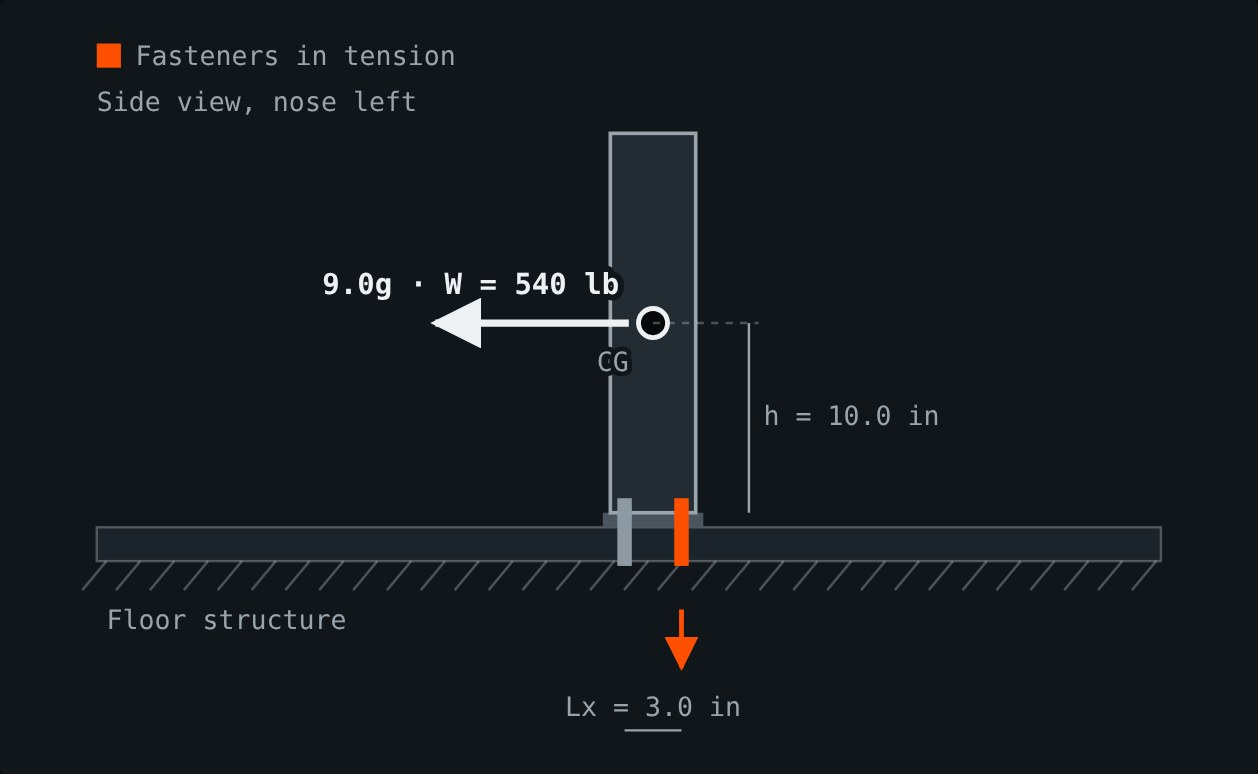
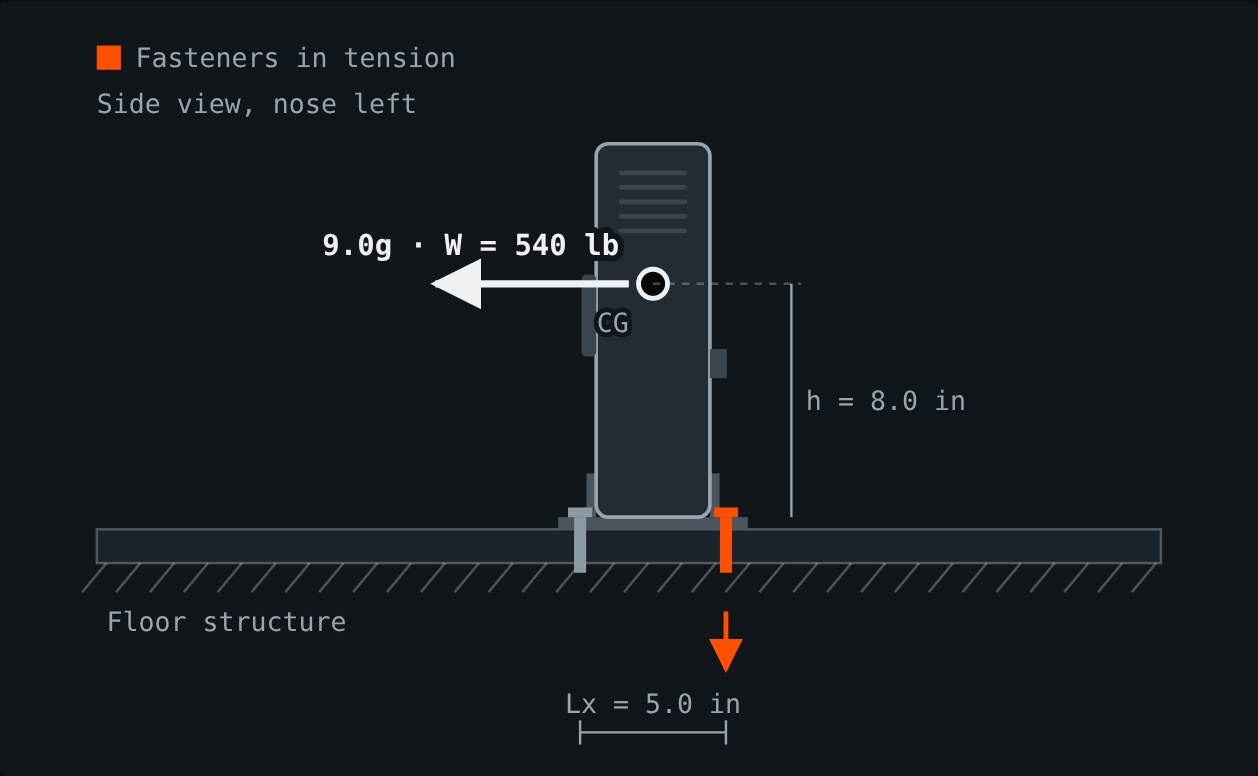
JBDA example: tool-first layout, live load-path narrative, bracket drawing, What I do section; feature F-35 sim
Claude-Session: https://claude.ai/code/session_01WACZZMW19NHfxAN4dgkvYk

diff --git a/assets/js/ms-calc.js b/assets/js/ms-calc.js
@@ -151,59 +151,112 @@
     });
     g.appendChild(defs);
 
+    // Geometry (inches): tray flange spans the fastener pattern plus edge margin;
+    // the unit sits between the fastener rows; its CG is at height h.
+    var edge = 0.75;
+    var flangeHalf = span / 2 + edge;
+    var unitHalf = Math.max(span / 2 - 0.55, 0.9);
+    var unitH = Math.max(p.h * 1.6, p.h + 2);
+    var legH = Math.min(1.5, unitH * 0.4);
     var floorY = 218, cx = 270;
-    var boxW = span + 1.5, boxH = Math.max(2 * p.h, 1);
-    var s = Math.min(300 / boxW, 160 / (boxH + 0.4), 40);
-    var halfW = boxW * s / 2, plateT = 6;
-    var boxTop = floorY - plateT - boxH * s;
+    var s = Math.min(330 / (2 * flangeHalf), 158 / (unitH + 0.3), 26);
+    var plateT = 5;
+    var baseY = floorY - plateT;
+    var X = function (u) { return cx + u * s; };
+    var Y = function (z) { return baseY - z * s; };
 
     // floor structure
     g.appendChild(el("rect", { x: 40, y: floorY, width: 440, height: 14, "class": "sv-floor" }));
     for (var hx = 44; hx < 480; hx += 14) g.appendChild(el("line", { x1: hx, y1: floorY + 14, x2: hx - 10, y2: floorY + 26, "class": "sv-hatch" }));
     g.appendChild(el("text", { x: 44, y: floorY + 42, "class": "sv-label" }, "Floor structure"));
-    // bracket base + item
-    g.appendChild(el("rect", { x: cx - halfW - 0.4 * s, y: floorY - plateT, width: 2 * halfW + 0.8 * s, height: plateT, "class": "sv-plate" }));
-    g.appendChild(el("rect", { x: cx - halfW, y: boxTop, width: 2 * halfW, height: boxH * s, "class": "sv-item" }));
+
+    // tray: base flange + upturned angle legs hugging the unit
+    g.appendChild(el("rect", { x: X(-flangeHalf), y: baseY, width: 2 * flangeHalf * s, height: plateT, "class": "sv-plate" }));
+    [-1, 1].forEach(function (sd) {
+      var lx = sd < 0 ? X(-unitHalf) - 4 : X(unitHalf);
+      g.appendChild(el("rect", { x: lx, y: Y(legH), width: 4, height: legH * s, "class": "sv-plate" }));
+    });
+
+    // the unit
+    var ux = X(-unitHalf), uy = Y(unitH), uw = 2 * unitHalf * s, uh = unitH * s;
+    g.appendChild(el("rect", { x: ux, y: uy, width: uw, height: uh, rx: 5, "class": "sv-item" }));
+    var slots = Math.min(5, Math.floor(uh / 14));
+    for (var i = 0; i < slots; i++) {
+      g.appendChild(el("line", { x1: ux + uw * 0.22, y1: uy + 12 + i * 6, x2: ux + uw * 0.78, y2: uy + 12 + i * 6, "class": "sv-detail" }));
+    }
+    if (endView) {
+      g.appendChild(el("rect", { x: ux + uw * 0.18, y: uy + uh * 0.42, width: uw * 0.64, height: uh * 0.2, rx: 2, "class": "sv-screen" }));
+    } else {
+      g.appendChild(el("rect", { x: ux - 6, y: uy + uh * 0.35, width: 6, height: uh * 0.22, rx: 2, "class": "sv-detail-fill" })); // front handle
+      g.appendChild(el("rect", { x: ux + uw, y: uy + uh * 0.55, width: 7, height: 12, "class": "sv-detail-fill" }));          // aft connector
+    }
     g.appendChild(el("text", { x: 40, y: 46, "class": "sv-label" }, endView ? "End view, looking forward" : "Side view, nose left"));
 
-    // fasteners
+    // fasteners through the flange
     var pos = [];
-    if (endView) { for (var i = 0; i < p.k; i++) pos.push(-p.Ly / 2 + i * p.Ly / (p.k - 1)); }
+    if (endView) { for (var k = 0; k < p.k; k++) pos.push(-p.Ly / 2 + k * p.Ly / (p.k - 1)); }
     else pos = [-p.Lx / 2, p.Lx / 2];
     pos.forEach(function (u) {
-      var px = cx + u * s;
-      var tension = false;
-      if (x.c.id === "fwd") tension = u > 0;       // load toward the nose: aft row pulls
+      var px = X(u), tension = false;
+      if (x.c.id === "fwd") tension = u > 0;
       if (x.c.id === "aft") tension = u < 0;
-      if (x.c.id === "side") tension = u < -1e-9;  // load to the right: left side pulls
+      if (x.c.id === "side") tension = u < -1e-9;
       if (x.c.id === "up") tension = true;
-      g.appendChild(el("rect", { x: px - 3, y: floorY - plateT - 6, width: 6, height: plateT + 22, "class": tension ? "sv-bolt sv-bolt-t" : "sv-bolt" }));
+      g.appendChild(el("rect", { x: px - 5, y: baseY - 4, width: 10, height: 4, "class": tension ? "sv-bolt sv-bolt-t" : "sv-bolt" }));
+      g.appendChild(el("rect", { x: px - 2.5, y: baseY, width: 5, height: plateT + 18, "class": tension ? "sv-bolt sv-bolt-t" : "sv-bolt" }));
       if (tension) arrow(g, px, floorY + 34, px, floorY + 58, "react");
     });
 
     // CG + h dimension
-    var cgY = floorY - plateT - p.h * s;
+    var cgY = Y(p.h);
     g.appendChild(el("circle", { cx: cx, cy: cgY, r: 6, "class": "sv-cg" }));
     g.appendChild(el("text", { x: cx - 10, y: cgY + 20, "text-anchor": "end", "class": "sv-label" }, "CG"));
-    var dimX = cx + halfW + 22;
-    g.appendChild(el("line", { x1: dimX, y1: cgY, x2: dimX, y2: floorY - plateT, "class": "sv-dim" }));
+    var dimX = X(flangeHalf) + 18;
+    g.appendChild(el("line", { x1: dimX, y1: cgY, x2: dimX, y2: baseY, "class": "sv-dim" }));
     g.appendChild(el("line", { x1: cx, y1: cgY, x2: dimX + 4, y2: cgY, "class": "sv-ext" }));
-    g.appendChild(el("text", { x: dimX + 6, y: (cgY + floorY) / 2, "class": "sv-label" }, "h = " + fmt(p.h, 1) + " in"));
-    // span dimension
-    var dY = floorY + 84, a = cx + pos[0] * s, b = cx + pos[pos.length - 1] * s;
+    g.appendChild(el("text", { x: dimX + 6, y: (cgY + baseY) / 2 + 4, "class": "sv-label" }, "h = " + fmt(p.h, 1) + " in"));
+    var dY = floorY + 84, a = X(pos[0]), b = X(pos[pos.length - 1]);
     g.appendChild(el("line", { x1: a, y1: dY, x2: b, y2: dY, "class": "sv-dim" }));
-    g.appendChild(el("text", { x: (a + b) / 2, y: dY - 6, "text-anchor": "middle", "class": "sv-label" }, (endView ? "Ly = " : "Lx = ") + fmt(span, 1) + " in"));
+    [a, b].forEach(function (q) { g.appendChild(el("line", { x1: q, y1: dY - 5, x2: q, y2: dY + 5, "class": "sv-dim" })); });
+    g.appendChild(el("text", { x: (a + b) / 2, y: dY - 8, "text-anchor": "middle", "class": "sv-label" }, (endView ? "Ly = " : "Lx = ") + fmt(span, 1) + " in"));
 
     // load arrow
     var L = 80, label = fmt(x.c.g, 1) + "g · W = " + fmt(x.F, 0) + " lb";
     if (x.c.id === "fwd") { arrow(g, cx - 10, cgY, cx - 10 - L, cgY, "load"); g.appendChild(el("text", { x: cx - 14, y: cgY - 12, "text-anchor": "end", "class": "sv-load-t" }, label)); }
     if (x.c.id === "aft" || x.c.id === "side") { arrow(g, cx + 10, cgY, cx + 10 + L, cgY, "load"); g.appendChild(el("text", { x: cx + 14, y: cgY - 12, "class": "sv-load-t" }, label)); }
     if (x.c.id === "up") { arrow(g, cx, cgY - 10, cx, Math.max(cgY - 10 - L, 16), "load"); g.appendChild(el("text", { x: cx + 12, y: Math.max(cgY - 40, 30), "class": "sv-load-t" }, label)); }
-    if (x.c.id === "down") { arrow(g, cx, cgY + 10, cx, Math.min(cgY + 10 + L, floorY - 14), "load"); g.appendChild(el("text", { x: cx - 14, y: cgY + 52, "text-anchor": "end", "class": "sv-load-t" }, label)); }
+    if (x.c.id === "down") { arrow(g, cx, cgY + 10, cx, Math.min(cgY + 10 + L, baseY - 8), "load"); g.appendChild(el("text", { x: cx - 14, y: cgY + 52, "text-anchor": "end", "class": "sv-load-t" }, label)); }
 
-    // legend
     g.appendChild(el("rect", { x: 40, y: 18, width: 10, height: 10, "class": "sv-bolt sv-bolt-t" }));
     g.appendChild(el("text", { x: 56, y: 27, "class": "sv-label" }, "Fasteners in tension"));
+  }
+
+  function renderNarrative(p, r) {
+    var x = r.rows.filter(function (y) { return y.c.id === selected; })[0];
+    var n = r.n, bolt = p.bolt.name, dir = x.c.name.toLowerCase();
+    var out = "Under the " + fmt(x.c.g, 1) + "g " + dir + " emergency-landing condition of 14 CFR 25.561, the " + fmt(p.W, 0) +
+      " lb unit produces a " + fmt(x.F, 0) + " lb inertia load at its CG, " + fmt(p.h, 1) + " in above the floor. ";
+    if (x.c.kind === "down") {
+      out += "The load passes from the unit into the tray and bears directly on the floor structure through the tray base. The " + n + " " + bolt +
+        " fasteners carry no load in this condition. The tray and floor would be checked in bearing separately.";
+    } else if (x.c.kind === "up") {
+      out += "The load passes from the unit into the tray and is reacted as direct tension shared equally by all " + n + " " + bolt +
+        " fasteners, " + fmt(x.T, 1) + " lb each.";
+    } else {
+      var side = x.c.id === "fwd" ? "aft row of fasteners" : x.c.id === "aft" ? "forward row of fasteners" : "fasteners along the left edge";
+      out += "The load passes from the unit into the tray and is reacted in shear by all " + n + " " + bolt + " fasteners, " + fmt(x.V, 1) +
+        " lb each. Because the CG sits above the floor, the load also creates a " + fmt(x.M, 0) +
+        " in·lb overturning moment. The " + side + " reacts it in tension, " + fmt(x.T, 1) +
+        " lb on the most heavily loaded fastener, while the opposite edge of the tray bears on the floor.";
+    }
+    if (x.MS !== null) {
+      var gov = r.bearing < r.boltShear ? " Sheet bearing governs the shear allowable." : "";
+      out += " With the 1.15 fitting factor of 25.625, the critical fastener " + (x.V && x.T ? "sees combined shear and tension and " : "") +
+        "has a margin of safety of <b class=\"" + (x.MS >= 0 ? "ms-ok" : "ms-bad") + "\">" + ms(x.MS) + "</b>." +
+        (x.V ? gov : "") +
+        (x.MS >= 0 ? " The installation is adequate for this condition." : " The installation is not adequate for this condition and needs more fasteners, a wider pattern, or thicker sheet.");
+    }
+    root.querySelector("[data-narrative]").innerHTML = out;
   }
 
   function update() {
@@ -213,7 +266,7 @@
     $("#o-lx").textContent = fmt(p.Lx, 1) + " in";
     $("#o-ly").textContent = fmt(p.Ly, 1) + " in";
     var r = solve(p);
-    renderTable(r); renderWork(p, r); renderSvg(p, r);
+    renderTable(r); renderWork(p, r); renderSvg(p, r); renderNarrative(p, r);
   }
 
   function select(id) {

diff --git a/assets/css/site.css b/assets/css/site.css
@@ -291,6 +291,11 @@ h1, h2, h3 { text-wrap: balance; font-weight: 700; }
 .p-hero::after { content: ""; position: absolute; inset: 0; z-index: -1; background: linear-gradient(180deg, rgba(6,8,9,.55) 0%, rgba(6,8,9,0) 28%, rgba(6,8,9,.35) 60%, var(--bg) 100%); }
 .p-hero.is-drawing .p-hero-media { background: var(--bg); }
 .p-hero.is-drawing .p-hero-media img { object-fit: contain; height: 100%; padding: 84px 5% max(330px, 44vh); filter: invert(1) hue-rotate(180deg) brightness(1.15) contrast(1.05); mix-blend-mode: screen; }
+.p-hero.no-media { min-height: 0; }
+.p-hero.no-media::after { display: none; }
+.p-hero.no-media ~ .p-body { padding-top: 0; }
+.p-hero.no-media ~ .p-body .prose > .calc:first-child { margin-top: 0; }
+.p-hero.no-media .p-hero-inner { padding-top: clamp(120px, 14vw, 170px); padding-bottom: 28px; }
 .p-hero-inner { display: flex; flex-direction: column; gap: 18px; padding-bottom: 48px; padding-top: 120px; }
 .back { font-size: 0.75rem; letter-spacing: 0.1em; text-transform: uppercase; color: var(--muted); text-decoration: none; }
 .back:hover { color: var(--ink); }
@@ -410,6 +415,9 @@ body:has(.p-next) .site-footer { margin-top: 0; border-top: 0; }
 .sv-item { fill: #232c33; stroke: var(--muted); stroke-width: 1.5; }
 .sv-bolt { fill: #8d99a3; }
 .sv-bolt-t { fill: var(--accent); }
+.sv-detail { stroke: #3a454e; stroke-width: 2; stroke-linecap: round; }
+.sv-detail-fill { fill: #3a454e; }
+.sv-screen { fill: #12202a; stroke: #3a454e; }
 .sv-cg { fill: var(--bg); stroke: var(--ink); stroke-width: 2; }
 .sv-dim { stroke: var(--muted); stroke-width: 1; }
 .sv-label { fill: var(--muted); font: 500 11px var(--f-mono); paint-order: stroke; stroke: var(--surface); stroke-width: 4px; stroke-linejoin: round; }
@@ -434,6 +442,11 @@ line.react { stroke: var(--accent); stroke-width: 2; }
 .gov { font: 500 0.65rem var(--f-mono); letter-spacing: 0.1em; text-transform: uppercase; color: var(--accent); margin-left: 6px; }
 .ms, .ms-na { font: 600 0.95rem var(--f-mono); }
 .ms-na { color: var(--faint); }
+.calc-narrative { grid-column: 1 / -1; border-left: 2px solid var(--accent); padding: 4px 0 4px 18px; display: flex; flex-direction: column; gap: 8px; }
+.calc-narrative-label { font-size: 0.7rem; letter-spacing: 0.12em; text-transform: uppercase; color: var(--faint); }
+.calc-narrative [data-narrative] { font-size: 1.02rem; line-height: 1.65; color: var(--ink); max-width: 90ch; }
+.calc-narrative b { font-weight: 600; font-family: var(--f-mono); }
+.prose .calc-note { font-size: 0.85rem; color: var(--faint); margin-top: -1.2em; text-align: center; }
 .calc-work { grid-column: 1 / -1; border-top: 1px solid var(--line); padding-top: 14px; color: #c9d0d5; }
 .calc-work summary { cursor: pointer; font: 500 0.8rem var(--f-mono); letter-spacing: 0.08em; text-transform: uppercase; color: var(--muted); }
 .calc-work summary:hover { color: var(--ink); }

diff --git a/_layouts/project.html b/_layouts/project.html
@@ -4,8 +4,9 @@ layout: default
 {% assign media = '/assets/projects/' | append: page.slug | append: '/' %}
 {% assign cat = site.project_categories | where: "key", page.category | first %}
 {% assign hero = page.hero | default: page.cover %}
+{% if page.hero == "none" %}{% assign hero = false %}{% endif %}
 <article class="project">
-  <header class="p-hero{% if page.hero_style == 'drawing' %} is-drawing{% endif %}">
+  <header class="p-hero{% if page.hero_style == 'drawing' %} is-drawing{% endif %}{% unless hero %} no-media{% endunless %}">
     {% if hero %}
     <div class="p-hero-media">
       <img src="{{ media | append: hero | relative_url }}" alt="{{ page.hero_alt | default: page.title | escape }}" data-parallax>

diff --git a/_projects/certification-worked-example.md b/_projects/certification-worked-example.md
@@ -1,41 +1,24 @@
 ---
 title: Certification Structures Example
-summary: An interactive Part 25 emergency-landing check for an invented cabin installation, built the same way I write structural substantiation at JBDA. Change the inputs and the margins of safety update live.
+summary: Size the fasteners for a cabin equipment unit under the Part 25 emergency-landing loads. Change the inputs and the margins of safety and load-path narrative update live, the way I write substantiation at JBDA.
 category: work
 status: complete
-featured: 4
 date: 2026-11-12
 role: Author. Illustrative example, not client work
 team: Solo
 timeframe: "2026"
 tools: [14 CFR 25.561, 14 CFR 25.625, Hand calculations, JavaScript]
 cover: cover.jpg
-hero_alt: Side-view diagram of an equipment unit on a bracket, with the forward 9g load arrow and the fasteners in tension highlighted.
+hero: none
 scripts: [/assets/js/ms-calc.js]
-
-highlights:
-  - value: "5"
-    label: Emergency-landing load cases from §25.561
-  - value: "1.15"
-    label: Fitting factor from §25.625
-  - value: "MS ≥ 0"
-    label: Every fastener, every load case
 ---
-
-## Why this page exists
-
-At J.B. Dwerlkotte Associates I write structural substantiation for FAA certification of business jet and turboprop modifications. That work belongs to the firm and its customers, so none of it appears here.
-
-This page shows the same kind of analysis on an **invented installation**: a cabin equipment unit on a bracket, fastened to the floor structure. Every number is either made up or comes from public sources. It is **not client work** and not a certified design.
-
-## Try it
 
 <div class="calc" data-calc markdown="0">
   <div class="calc-inputs" role="group" aria-label="Installation inputs">
     <label class="calc-field"><span>Item weight, W</span><span class="calc-row"><input type="range" id="c-w" min="2" max="120" step="1" value="60"><output for="c-w" id="o-w">60 lb</output></span></label>
-    <label class="calc-field"><span>CG height above the mounting surface, h</span><span class="calc-row"><input type="range" id="c-h" min="1" max="18" step="0.5" value="10"><output for="c-h" id="o-h">10 in</output></span></label>
-    <label class="calc-field"><span>Fore–aft spacing between fastener rows, L<sub>x</sub></span><span class="calc-row"><input type="range" id="c-lx" min="2" max="14" step="0.5" value="3"><output for="c-lx" id="o-lx">3 in</output></span></label>
-    <label class="calc-field"><span>Side-to-side spread of each row, L<sub>y</sub></span><span class="calc-row"><input type="range" id="c-ly" min="2" max="14" step="0.5" value="6"><output for="c-ly" id="o-ly">6 in</output></span></label>
+    <label class="calc-field"><span>CG height above the mounting surface, h</span><span class="calc-row"><input type="range" id="c-h" min="1" max="18" step="0.5" value="8"><output for="c-h" id="o-h">8 in</output></span></label>
+    <label class="calc-field"><span>Fore–aft spacing between fastener rows, L<sub>x</sub></span><span class="calc-row"><input type="range" id="c-lx" min="2" max="14" step="0.5" value="5"><output for="c-lx" id="o-lx">5 in</output></span></label>
+    <label class="calc-field"><span>Side-to-side spread of each row, L<sub>y</sub></span><span class="calc-row"><input type="range" id="c-ly" min="2" max="14" step="0.5" value="8"><output for="c-ly" id="o-ly">8 in</output></span></label>
     <div class="calc-selects">
       <label class="calc-field"><span>Fasteners per row</span><select id="c-k"><option value="2" selected>2 (4 total)</option><option value="3">3 (6 total)</option><option value="4">4 (8 total)</option></select></label>
       <label class="calc-field"><span>Fastener</span><select id="c-d"><option value="AN3" selected>AN3 (3/16 in)</option><option value="AN4">AN4 (1/4 in)</option></select></label>
@@ -68,11 +51,23 @@ This page shows the same kind of analysis on an **invented installation**: a cab
     </div>
   </div>
 
-  <details class="calc-work" open>
+  <div class="calc-narrative">
+    <p class="calc-narrative-label mono">Load-path narrative</p>
+    <p data-narrative></p>
+  </div>
+
+  <details class="calc-work">
     <summary>Show the work for the selected case</summary>
     <div data-work></div>
   </details>
 </div>
+
+<p class="calc-note">Invented installation, not client work. Every number is made up or from public sources, and this is not a certified design.</p>
+
+## What I do at JBDA
+
+<!-- DRAFT from LinkedIn: rewrite in your own words -->
+At J.B. Dwerlkotte Associates I write the structural substantiation that shows a modification is safe to fly. A typical job is a change to a business jet or turboprop: a galley modification, a new flight computer, an ELT, or a doubler over damaged skin. I trace each load from the installation into the primary structure, size the fasteners, inserts, doublers, and panels, and write it up as a load-path narrative that the DER reviews and approves. That work belongs to the firm and its customers, so this page uses an invented example built the same way.
 
 ## How the numbers work
 

diff --git a/_projects/flight-sim-cockpit.md b/_projects/flight-sim-cockpit.md
@@ -3,6 +3,7 @@ title: F-35 Flight Sim Cockpit
 summary: With a small volunteer team, we turned a non-working simulator in a mock F-35 cockpit, donated by the Kansas Aviation Museum, into a working X-Plane 12 simulator for a local elementary school.
 category: volunteering
 status: complete
+featured: 4
 date: 2026-06-01
 role: Builder (volunteer)
 team: Small volunteer team
